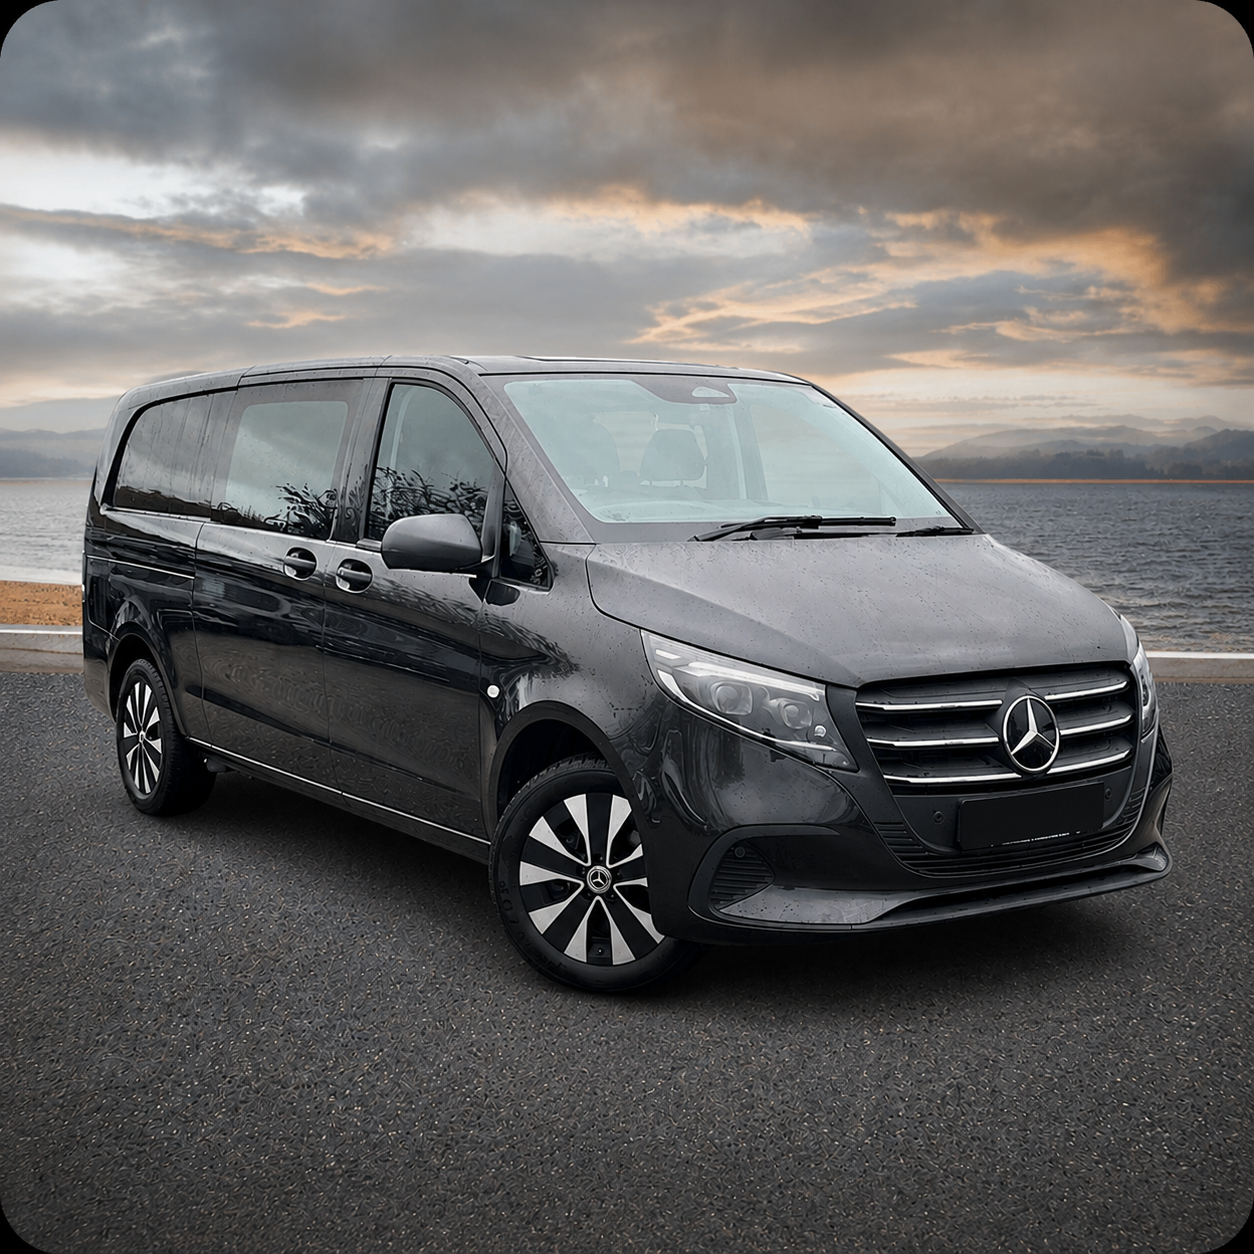
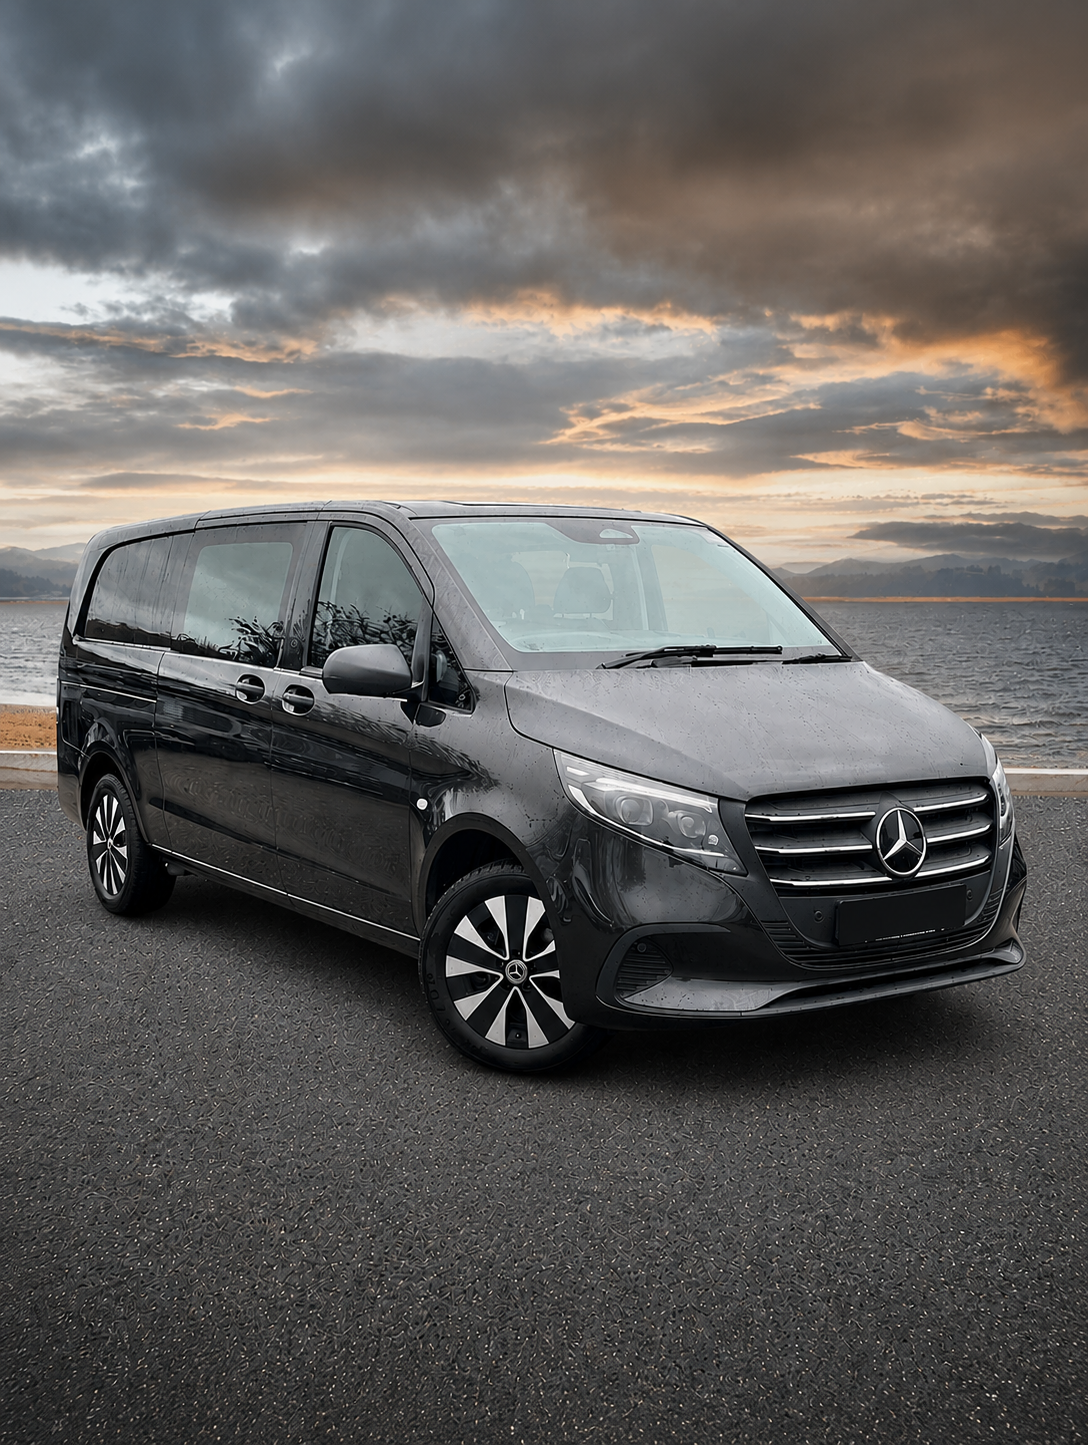
Update the image ratio

diff --git a/resources/views/frontend/home.blade.php b/resources/views/frontend/home.blade.php
@@ -168,7 +168,7 @@
                 </figure>
                 <figure class="nch-showcard">
                     <span class="nch-badge nch-badge--dark nch-showcard__badge">9-seater</span>
-                    <img src="{{asset("assets/images/cars/9-seater.png")}}" alt="Mercedes Vito 9-seater">
+                    <img src="{{asset("assets/images/cars/9-seater.png")}}?v=1" alt="Mercedes Vito 9-seater">
                     <figcaption class="nch-showcard__label">Mercedes Vito</figcaption>
                 </figure>
             </div>